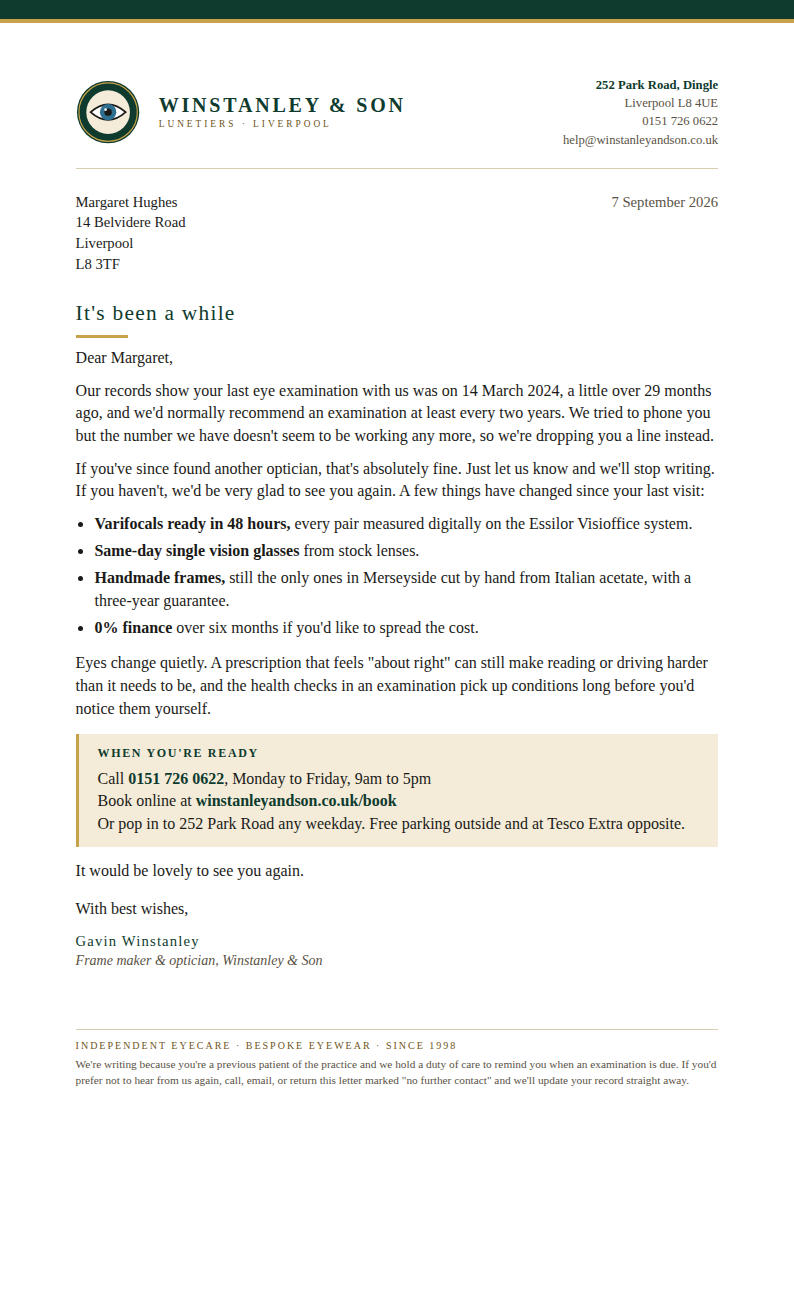
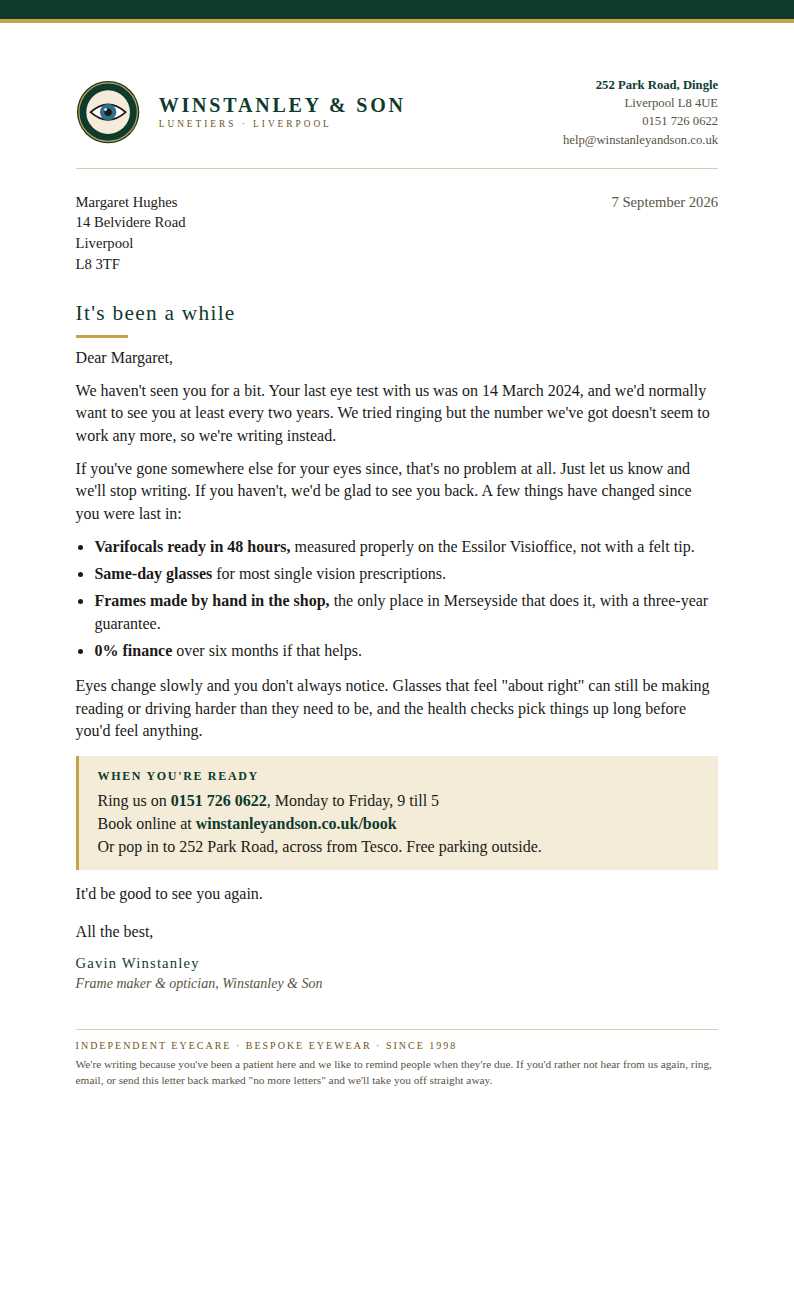
Rewrite letters in plain, local voice
Claude-Session: https://claude.ai/code/session_01RZ9dmirfgbEMTdyZc5ae4N

Changed region(s): [[0.0907, 0.2769, 0.9068, 0.7692], [0.2418, 0.8, 0.9068, 0.8615]]

diff --git a/tools/address-audit/letters/cold-reactivation-letter.html b/tools/address-audit/letters/cold-reactivation-letter.html
@@ -36,20 +36,20 @@ ul{margin:0 0 3.2mm;padding-left:5mm} li{margin-bottom:1.2mm}
 {{contact.postal_code}}</div><div class="date">{{right_now.date}}</div></div>
 <h1>It's been a while</h1>
 <p>Dear {{contact.first_name}},</p>
-<p>Our records show your last eye examination with us was on {{contact.last_exam_date}}, a little over {{contact.months_since_exam}} months ago, and we'd normally recommend an examination at least every two years. We tried to phone you but the number we have doesn't seem to be working any more, so we're dropping you a line instead.</p>
-<p>If you've since found another optician, that's absolutely fine. Just let us know and we'll stop writing. If you haven't, we'd be very glad to see you again. A few things have changed since your last visit:</p>
+<p>We haven't seen you for a bit. Your last eye test with us was on {{contact.last_exam_date}}, and we'd normally want to see you at least every two years. We tried ringing but the number we've got doesn't seem to work any more, so we're writing instead.</p>
+<p>If you've gone somewhere else for your eyes since, that's no problem at all. Just let us know and we'll stop writing. If you haven't, we'd be glad to see you back. A few things have changed since you were last in:</p>
 <ul>
-<li><b>Varifocals ready in 48 hours,</b> every pair measured digitally on the Essilor Visioffice system.</li>
-<li><b>Same-day single vision glasses</b> from stock lenses.</li>
-<li><b>Handmade frames,</b> still the only ones in Merseyside cut by hand from Italian acetate, with a three-year guarantee.</li>
-<li><b>0% finance</b> over six months if you'd like to spread the cost.</li>
+<li><b>Varifocals ready in 48 hours,</b> measured properly on the Essilor Visioffice, not with a felt tip.</li>
+<li><b>Same-day glasses</b> for most single vision prescriptions.</li>
+<li><b>Frames made by hand in the shop,</b> the only place in Merseyside that does it, with a three-year guarantee.</li>
+<li><b>0% finance</b> over six months if that helps.</li>
 </ul>
-<p>Eyes change quietly. A prescription that feels "about right" can still make reading or driving harder than it needs to be, and the health checks in an examination pick up conditions long before you'd notice them yourself.</p>
+<p>Eyes change slowly and you don't always notice. Glasses that feel "about right" can still be making reading or driving harder than they need to be, and the health checks pick things up long before you'd feel anything.</p>
 <div class="ways"><b>WHEN YOU'RE READY</b>
-Call <b style="display:inline;font-family:inherit;letter-spacing:0;font-size:inherit">0151 726 0622</b>, Monday to Friday, 9am to 5pm<br>
+Ring us on <b style="display:inline;font-family:inherit;letter-spacing:0;font-size:inherit">0151 726 0622</b>, Monday to Friday, 9 till 5<br>
 Book online at <b style="display:inline;font-family:inherit;letter-spacing:0;font-size:inherit">winstanleyandson.co.uk/book</b><br>
-Or pop in to 252 Park Road any weekday. Free parking outside and at Tesco Extra opposite.</div>
-<p>It would be lovely to see you again.</p>
-<div class="sig"><p>With best wishes,</p><div class="name">{{practice.signatory_name}}</div><div class="role">{{practice.signatory_role}}, Winstanley &amp; Son</div></div>
-<div class="foot"><div class="tag">INDEPENDENT EYECARE · BESPOKE EYEWEAR · SINCE 1998</div>We're writing because you're a previous patient of the practice and we hold a duty of care to remind you when an examination is due. If you'd prefer not to hear from us again, call, email, or return this letter marked "no further contact" and we'll update your record straight away.</div>
+Or pop in to 252 Park Road, across from Tesco. Free parking outside.</div>
+<p>It'd be good to see you again.</p>
+<div class="sig"><p>All the best,</p><div class="name">{{practice.signatory_name}}</div><div class="role">{{practice.signatory_role}}, Winstanley &amp; Son</div></div>
+<div class="foot"><div class="tag">INDEPENDENT EYECARE · BESPOKE EYEWEAR · SINCE 1998</div>We're writing because you've been a patient here and we like to remind people when they're due. If you'd rather not hear from us again, ring, email, or send this letter back marked "no more letters" and we'll take you off straight away.</div>
 </div></body></html>

diff --git a/tools/address-audit/letters/recall-letter.html b/tools/address-audit/letters/recall-letter.html
@@ -34,16 +34,16 @@ ul{margin:0 0 3.2mm;padding-left:5mm} li{margin-bottom:1.2mm}
 {{contact.address1}}
 {{contact.city}}
 {{contact.postal_code}}</div><div class="date">{{right_now.date}}</div></div>
-<h1>Your eye examination is due</h1>
+<h1>Your eye test is due</h1>
 <p>Dear {{contact.first_name}},</p>
-<p>Our records show your last examination with us was on {{contact.last_exam_date}}, and we recommended you come back around now. We tried to reach you on {{contact.phone}} but couldn't get through, so we're writing instead.</p>
-<p>A regular eye examination does more than check whether your prescription has changed. It lets us look at the health of your eyes and pick up early signs of conditions such as glaucoma, cataracts and macular degeneration, most of which are far easier to manage when found early. Even if your glasses feel fine, it's worth keeping to the interval.</p>
-<div class="ways"><b>THREE WAYS TO BOOK</b>
-Call <b style="display:inline;font-family:inherit;letter-spacing:0;font-size:inherit">0151 726 0622</b>, Monday to Friday, 9am to 5pm<br>
+<p>It's time for your eye test. Your last one with us was on {{contact.last_exam_date}}, and we said we'd see you again about now. We tried ringing you on {{contact.phone}} but couldn't get through, so we thought we'd write instead.</p>
+<p>An eye test isn't just about whether your glasses need changing. We check the health of your eyes too, and we can spot things like glaucoma and cataracts early, when they're much easier to deal with. Even if your glasses feel fine, it's worth coming in.</p>
+<div class="ways"><b>TO BOOK</b>
+Ring us on <b style="display:inline;font-family:inherit;letter-spacing:0;font-size:inherit">0151 726 0622</b>, Monday to Friday, 9 till 5<br>
 Book online at <b style="display:inline;font-family:inherit;letter-spacing:0;font-size:inherit">winstanleyandson.co.uk/book</b><br>
-Call in at 252 Park Road any weekday. Free parking outside and at Tesco Extra opposite.</div>
-<p>If you've had your eyes tested elsewhere since we last saw you, or your phone number has changed, please let us know so we can keep your record up to date and stop chasing you unnecessarily.</p>
-<p>We look forward to seeing you soon.</p>
+Or just pop in. We're at 252 Park Road, across from Tesco, with free parking outside.</div>
+<p>If you've been somewhere else for your eyes since we last saw you, or your number's changed, give us a quick ring and we'll update your records so we're not chasing you for nothing.</p>
+<p>Hope to see you soon.</p>
 <div class="sig"><p>Kind regards,</p><div class="name">{{practice.signatory_name}}</div><div class="role">{{practice.signatory_role}}, Winstanley &amp; Son</div></div>
-<div class="foot"><div class="tag">INDEPENDENT EYECARE · BESPOKE EYEWEAR · SINCE 1998</div>NHS patients: if you're entitled to an NHS-funded sight test, please bring proof of entitlement. If you'd rather not receive letters from us, call or email and we'll update your preferences.</div>
+<div class="foot"><div class="tag">INDEPENDENT EYECARE · BESPOKE EYEWEAR · SINCE 1998</div>If you get a free NHS eye test, please bring proof with you. If you'd rather we didn't write to you, just ring or email and we'll take you off the list.</div>
 </div></body></html>

diff --git a/tools/address-audit/letters/cold-reactivation-letter.md b/tools/address-audit/letters/cold-reactivation-letter.md
@@ -1,55 +1,27 @@
 # Cold reactivation letter (bands: 12-24m, 24-36m)
 
-Use when a patient is one to three years overdue. Assume they may have moved practice,
-lost touch, or simply forgotten. Tone is warm and unhurried, no pressure, with a clear
-reason to come back and an easy way to opt out. Run deceased screening and the PAF
-cleanse before any send to this band.
+Plain copy of cold-reactivation-letter.html. Run deceased screening and the PAF cleanse before any send to these bands.
 
----
+# It's been a while
 
 Dear {{contact.first_name}},
+We haven't seen you for a bit. Your last eye test with us was on {{contact.last_exam_date}}, and we'd normally want to see you at least every two years. We tried ringing but the number we've got doesn't seem to work any more, so we're writing instead.
+If you've gone somewhere else for your eyes since, that's no problem at all. Just let us know and we'll stop writing. If you haven't, we'd be glad to see you back. A few things have changed since you were last in:
 
-It's been a while since we last saw you, and we wanted to check in.
+Varifocals ready in 48 hours, measured properly on the Essilor Visioffice, not with a felt tip.
+Same-day glasses for most single vision prescriptions.
+Frames made by hand in the shop, the only place in Merseyside that does it, with a three-year guarantee.
+0% finance over six months if that helps.
 
-Our records show your last eye examination with us was on {{contact.last_exam_date}}.
-That's a little over {{contact.months_since_exam}} months ago, and we'd normally
-recommend an examination at least every two years. We tried to phone you but the number
-we have doesn't seem to be working any more, so we're dropping you a line instead.
+Eyes change slowly and you don't always notice. Glasses that feel "about right" can still be making reading or driving harder than they need to be, and the health checks pick things up long before you'd feel anything.
+**WHEN YOU'RE READY**  
 
-If you've since found another optician, that's absolutely fine. Just let us know and we'll
-stop writing. If you haven't, we'd be very glad to see you again.
-
-A few things have changed since your last visit that you might find useful:
-
-- **Varifocals ready in 48 hours.** We now measure every pair with the Essilor Visioffice
-  digital system, which fits far more accurately than the old methods, and most pairs are
-  ready within two days.
-- **Same-day single vision glasses** from stock lenses, so a simple new prescription
-  doesn't mean a second trip.
-- **Handmade frames.** We're still the only practice in Merseyside cutting bespoke frames
-  by hand, from Italian acetate, with a three-year guarantee.
-- **0% finance** over six months if you'd like to spread the cost.
-
-Eyes change quietly. A prescription that feels "about right" can still be making reading
-or driving harder than it needs to be, and the health checks we do during an examination
-can pick up conditions long before you'd notice anything yourself.
-
-To book, call 0151 726 0622 (Monday to Friday, 9am to 5pm), visit
-winstanleyandson.co.uk/book, or pop in to 252 Park Road any weekday. There's free parking
-outside and at Tesco Extra across the road.
-
-It would be lovely to see you again.
-
-With best wishes,
-
-{{practice.signatory_name}}
-Winstanley & Son Opticians
-252 Park Road, Dingle, Liverpool L8 4UE
-0151 726 0622 · help@winstanleyandson.co.uk
+Ring us on 0151 726 0622, Monday to Friday, 9 till 5
+Book online at winstanleyandson.co.uk/book
+Or pop in to 252 Park Road, across from Tesco. Free parking outside.
+It'd be good to see you again.
+All the best,{{practice.signatory_name}}{{practice.signatory_role}}, Winstanley & Son
 
 ---
 
-*We're writing because you're a previous patient of the practice and we hold a duty of
-care to remind you when an examination is due. If you'd prefer not to hear from us again,
-call, email, or return this letter marked "no further contact" and we'll update your
-record straight away.*
+*We're writing because you've been a patient here and we like to remind people when they're due. If you'd rather not hear from us again, ring, email, or send this letter back marked "no more letters" and we'll take you off straight away.*

diff --git a/tools/address-audit/letters/recall-letter.md b/tools/address-audit/letters/recall-letter.md
@@ -1,47 +1,21 @@
 # Recall letter (bands: due30, 0-6m)
 
-Use when a patient's eye examination is due or up to six months overdue and the phone
-has failed, or as the standard postal recall. Merge fields use GHL syntax.
-Sender block, date and address block are supplied by the Stannp / Scribeless template.
+Plain copy of recall-letter.html.
 
----
+# Your eye test is due
 
 Dear {{contact.first_name}},
+It's time for your eye test. Your last one with us was on {{contact.last_exam_date}}, and we said we'd see you again about now. We tried ringing you on {{contact.phone}} but couldn't get through, so we thought we'd write instead.
+An eye test isn't just about whether your glasses need changing. We check the health of your eyes too, and we can spot things like glaucoma and cataracts early, when they're much easier to deal with. Even if your glasses feel fine, it's worth coming in.
+**TO BOOK**  
 
-Your eye examination with us is now due.
-
-Our records show your last examination was on {{contact.last_exam_date}}, and we
-recommended you come back around now. We tried to reach you by phone on
-{{contact.phone}} but couldn't get through, so we're writing instead.
-
-A regular eye examination does more than check whether your prescription has changed.
-It lets us look at the health of your eyes and pick up early signs of conditions such as
-glaucoma, cataracts and macular degeneration, most of which are far easier to manage when
-they're found early. Even if your glasses feel fine, it's worth keeping to the interval.
-
-Booking is simple. You can:
-
-- Call us on 0151 726 0622 (Monday to Friday, 9am to 5pm)
-- Book online at winstanleyandson.co.uk/book
-- Reply to this letter, or call in at 252 Park Road any weekday
-
-There's free parking outside the practice and at Tesco Extra opposite.
-
-If you've had your eyes tested elsewhere since we last saw you, or your phone number has
-changed, please let us know so we can keep your record up to date and stop chasing you
-unnecessarily.
-
-We look forward to seeing you soon.
-
-Kind regards,
-
-{{practice.signatory_name}}
-Winstanley & Son Opticians
-252 Park Road, Dingle, Liverpool L8 4UE
-0151 726 0622 · help@winstanleyandson.co.uk
+Ring us on 0151 726 0622, Monday to Friday, 9 till 5
+Book online at winstanleyandson.co.uk/book
+Or just pop in. We're at 252 Park Road, across from Tesco, with free parking outside.
+If you've been somewhere else for your eyes since we last saw you, or your number's changed, give us a quick ring and we'll update your records so we're not chasing you for nothing.
+Hope to see you soon.
+Kind regards,{{practice.signatory_name}}{{practice.signatory_role}}, Winstanley & Son
 
 ---
 
-*NHS patients: if you're entitled to an NHS-funded sight test, please bring proof of
-entitlement with you. If you'd rather not receive letters from us, call or email and we'll
-update your preferences.*
+*If you get a free NHS eye test, please bring proof with you. If you'd rather we didn't write to you, just ring or email and we'll take you off the list.*
